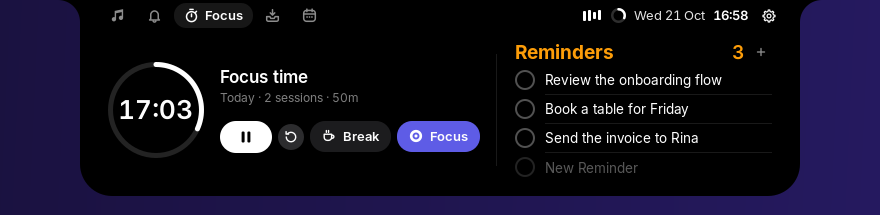
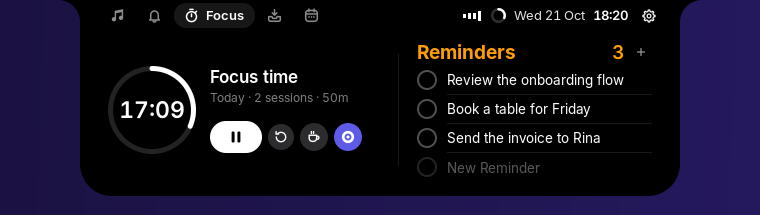
Release 0.4.1
Fixes two GNOME Shell crashes in Reminders, the island shaking while it resizes and tabs jumping
when switched, and makes Isle lighter while music plays.

diff --git a/CHANGELOG.md b/CHANGELOG.md
@@ -6,6 +6,34 @@ All notable changes to Isle are listed here. The format follows
 
 ## [Unreleased]
 
+## [0.4.1] - 2026-10-22
+
+### Fixed
+
+- **GNOME Shell could crash** when the island closed in the moment a ticked
+  reminder folded away, or when renaming one reminder and then another.
+- The island **no longer shakes by a pixel** while it grows and shrinks:
+  its contents stay put on screen, and its edges no longer step back.
+- **Switching tabs** no longer makes the tabs jump: names open and close
+  smoothly, and the Focus page now fits the same width as the others, so
+  the island keeps its size from tab to tab.
+- One alert replacing another fades over instead of swapping in a frame,
+  and an alert shown again while fading out no longer blinks.
+- After adding a reminder with Enter, the field keeps the keyboard, ready
+  for the next one.
+- `isled` stops when its session ends instead of lingering in the
+  background.
+- Less work while music plays: synced lyrics no longer retry scrolling
+  sixty times a second while hidden, the music bars animate without
+  re-laying out the island, the output list is not rebuilt as the volume
+  moves, and a cover is decoded once.
+- Cached covers and lyrics are trimmed to the latest 500 songs.
+
+### Changed
+
+- The Focus page's Break and Focus are round buttons, lit in the phase's
+  colour, so the timer and today's reminders share the usual width.
+
 ## [0.4.0] - 2026-10-22
 
 ### Added
@@ -297,7 +325,8 @@ The first release.
   dark, vivid ones bright.
 - Text is at least 12 px throughout.
 
-[Unreleased]: https://github.com/zickrian/isle/compare/v0.4.0...HEAD
+[Unreleased]: https://github.com/zickrian/isle/compare/v0.4.1...HEAD
+[0.4.1]: https://github.com/zickrian/isle/compare/v0.4.0...v0.4.1
 [0.4.0]: https://github.com/zickrian/isle/compare/v0.3.0...v0.4.0
 [0.3.0]: https://github.com/zickrian/isle/compare/v0.2.0...v0.3.0
 [0.2.0]: https://github.com/zickrian/isle/compare/v0.1.2...v0.2.0
